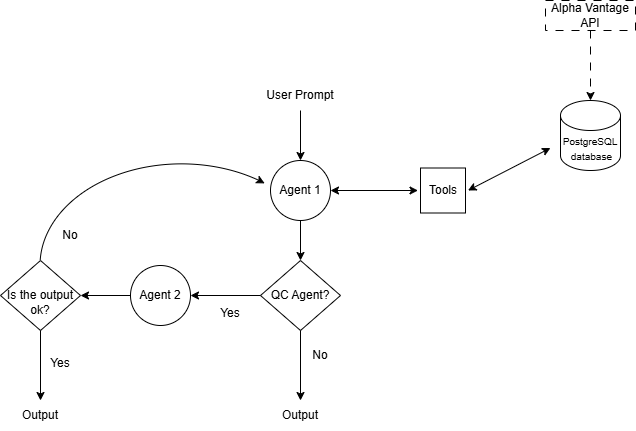
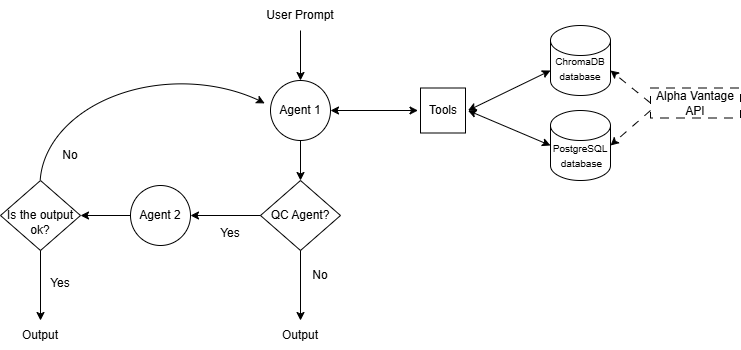
[UPDATE] read_me and pipeline update

diff --git a/README.md b/README.md
@@ -28,15 +28,11 @@ The pipeline has been designed to allow a second agent to act as a reviewer of t
 
 You can enable or disable it using the **use_qc** parameter in the Agent class.
 
-In addition, the agent is able to retrieve information from a PostgreSQL database containing financial data, which has been obtained in advance via the Alpha Vangate API.
+In addition, the agent is able to retrieve information from both a PostgreSQL database containing structured financial data and a ChromaDB vector database containing market news. Both sources are populated in advance via the Alpha Vantage API.
 
 
 ![Esquema](images/agent_pipeline.png)
 
-
-## In progress
-
-Connecting via the AlphaVantage API to financial data, which will be extracted and stored in PostgreSQL and ChromaDB so that it can be accessed by the agent.
 
 
 ##  References